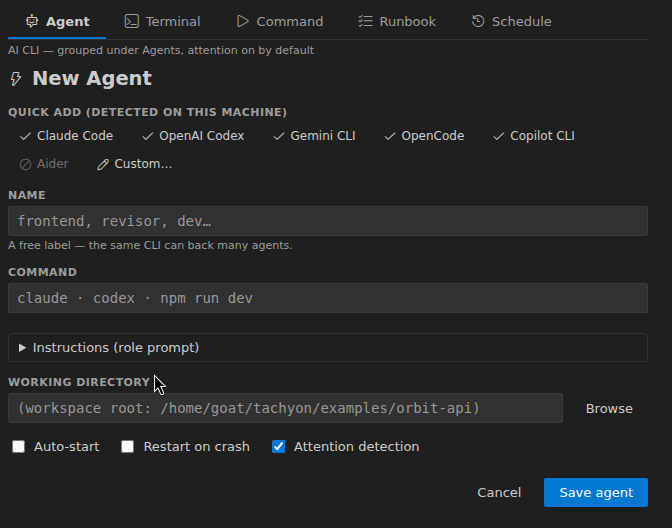
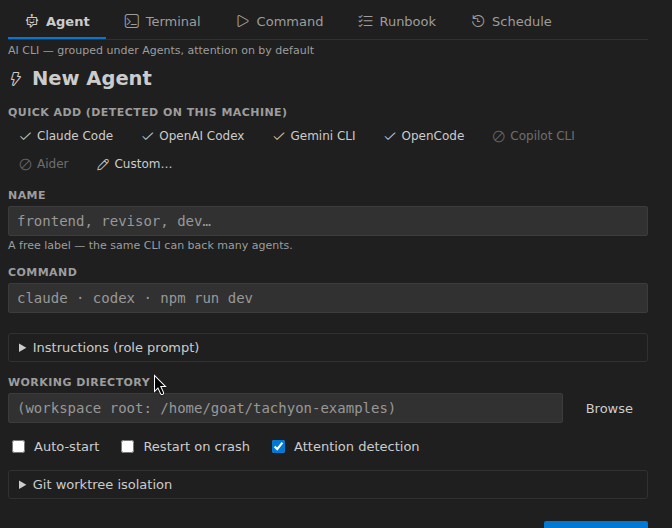
feat(screenshots): rig targets tachyon-examples + new worktree/verify/review scenes
Repoint the rig at the standalone tachyon-examples repo (auto-cloned) so worktree
scenes fork a real git repo, and fix two env gotchas that broke it: unset
ELECTRON_RUN_AS_NODE (made the VSCode binary run as Node → 'bad option') and isolate
the worktree cache under a temp XDG_CACHE_HOME outside this repo (a nested worktree
inherited tachyon's vitest config → demo npm test failed).

New scenes: worktree (⎇ branch + ✓ verify badge) and review (the C2 diff editor).
Force-removes leftover feature worktrees each run; breadcrumbs off for clean diffs.
Refreshed studio-* against tachyon-examples; added worktree.png + review.png.

diff --git a/scripts/screenshots/runner.js b/scripts/screenshots/runner.js
@@ -4,7 +4,7 @@
  * marker files in $SHOTDIR (writes `ready`, waits for `done`) so an outside
  * ffmpeg grabs the frame at the right moment.
  *
- * Scenes (env SCENE): hero | observability | lineage | studio | multiroot | inspector | commands | pins | schedules | walkthrough
+ * Scenes (env SCENE): hero | observability | lineage | studio | multiroot | inspector | commands | pins | schedules | walkthrough | worktree | review
  * Run one per invocation (see capture.sh). Targets the committed examples.
  */
 const vscode = require("vscode");
@@ -161,6 +161,43 @@ exports.run = async function run() {
     await vscode.commands.executeCommand("tachyon.refreshViews");
     await sleep(1200); await tidy();
     await frame("resume");
+  } else if (SCENE === "worktree") {
+    // The worktree loop (spec 210/214). Spawn the `feature` agent in its OWN git
+    // worktree (⎇ badge) — cheaply as `sh` so it's deterministic headless (the
+    // declared feature in tachyon.yml supplies `verify: test`). Then run Verify →
+    // the ✓ badge. Needs a standalone-git workspace (tachyon-examples), which is why
+    // the rig targets it. The worktree path comes from the ledger (robust vs XDG).
+    const root = wss[0].root;
+    try { await vscode.commands.executeCommand("tachyon._spawn", "feature", { cmd: "sh", worktree: true }); } catch {}
+    await sleep(3500);
+    let wt;
+    try { wt = JSON.parse(fs.readFileSync(`${root}/.tachyon/sessions.json`, "utf8")).sessions.feature.worktree.path; } catch {}
+    // A fresh worktree has no node_modules — link the main tree's so `npm test` runs.
+    if (wt) { try { execFileSync("bash", ["-c", `ln -sfn "${root}/node_modules" "${wt}/node_modules"`], { stdio: "pipe" }); } catch {} }
+    try { await vscode.commands.executeCommand("tachyon.verifyAgentItem", { agentName: "feature" }); } catch {}
+    await sleep(8000); // npm test runs in the worktree
+    await vscode.commands.executeCommand("workbench.action.closeAllEditors");
+    await vscode.commands.executeCommand("tachyon.refreshViews");
+    await vscode.commands.executeCommand("tachyonTree.focus");
+    await sleep(1500); await tidy();
+    await frame("worktree");
+  } else if (SCENE === "review") {
+    // C2 diff-review — the agent's branch vs the base, in VS Code's native diff editor.
+    const root = wss[0].root;
+    try { await vscode.commands.executeCommand("tachyon._spawn", "feature", { cmd: "sh", worktree: true }); } catch {}
+    await sleep(3500);
+    let wt;
+    try { wt = JSON.parse(fs.readFileSync(`${root}/.tachyon/sessions.json`, "utf8")).sessions.feature.worktree.path; } catch {}
+    if (wt) { try { execFileSync("bash", ["-c", `printf '\\n// reviewed on the feature branch\\nexport const REVIEWED = true;\\n' >> "${wt}/orbit-api/src/routes/missions.js"`], { stdio: "pipe" }); } catch {} }
+    await vscode.commands.executeCommand("workbench.action.closeAllEditors");
+    await vscode.commands.executeCommand("vscode.setEditorLayout", { orientation: 0, groups: [{}] });
+    if (wt) {
+      const base = vscode.Uri.file(`${root}/orbit-api/src/routes/missions.js`);
+      const cur = vscode.Uri.file(`${wt}/orbit-api/src/routes/missions.js`);
+      await vscode.commands.executeCommand("vscode.diff", base, cur, "missions.js (main ↔ feature worktree)");
+    }
+    await sleep(3000); await tidy();
+    await frame("review");
   }
 
   try { await vscode.commands.executeCommand("tachyon.stopAll"); } catch {}

diff --git a/scripts/screenshots/README.md b/scripts/screenshots/README.md
@@ -15,9 +15,16 @@ frame with `ffmpeg`. `crop.sh` then cuts the raw frames into the doc assets.
 
 - `tmux`, `xvfb`, `ffmpeg`
 - the VSCode test binary — downloaded once by `npm run test:integration`
-- example deps installed: `(cd examples/orbit-api && npm install)`
+- the demo workspace: the standalone [`tachyon-examples`](https://github.com/cfpperche/tachyon-examples)
+  repo. `capture.sh` auto-clones it to `~/tachyon-examples` (override with `$TACHYON_EXAMPLES`)
+  and `npm install`s it. It must be its OWN git repo so the worktree/verify scenes fork for real.
 - the AI CLIs you want to show on `PATH` (the hero/lineage scenes launch real
-  `claude` / `codex` TUIs; they cost a small real interaction)
+  `claude` / `codex` TUIs; they cost a small real interaction). The worktree/verify/review/studio
+  scenes are deterministic and need no real AI.
+
+> The rig `unset`s `ELECTRON_RUN_AS_NODE` (some agent/CLI runtimes set it, which makes the VSCode
+> binary run as Node and reject every flag), and isolates its tmux socket + worktree cache
+> (`XDG_CACHE_HOME` under a temp dir) so it never touches your live editor/agents.
 
 ## Usage
 
@@ -25,7 +32,9 @@ frame with `ffmpeg`. `crop.sh` then cuts the raw frames into the doc assets.
 scripts/screenshots/capture.sh hero            # claude orchestrates a codex review
 scripts/screenshots/capture.sh observability   # running / needs-input / idle / crashed
 scripts/screenshots/capture.sh lineage         # claude > worker > researcher
-scripts/screenshots/capture.sh studio          # the four Agent Studio tabs
+scripts/screenshots/capture.sh studio          # the Agent Studio tabs
+scripts/screenshots/capture.sh worktree        # a worktree agent: ⎇ branch + ✓ verify badge
+scripts/screenshots/capture.sh review          # the C2 diff editor (base ↔ worktree)
 scripts/screenshots/capture.sh multiroot       # two folders, two Bridges
 scripts/screenshots/crop.sh                     # raw frames -> docs/screenshots/*.png
 ```
